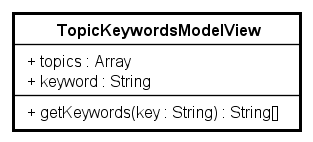
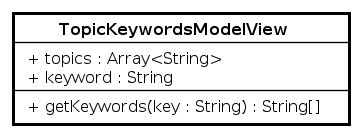
Aggiornato TopicKeywordsModelView.

Changed region(s): [[0.0288, 0.0584, 0.9776, 0.9343], [0.0863, 0.3796, 0.6326, 0.4964]]

diff --git a/RP/DefinizioneDiProdotto/sezioni/Front-End/ModelViews/QuizziPedia_Front-End_ModelViews_TopicKeywordsModelView.tex b/RP/DefinizioneDiProdotto/sezioni/Front-End/ModelViews/QuizziPedia_Front-End_ModelViews_TopicKeywordsModelView.tex
@@ -18,7 +18,7 @@
 					\end{itemize}
 					\item \textbf{Attributi}: 
 					\begin{itemize}
-						\item \texttt{+ topics: Array} \\ \texttt{array} contenente le stringhe dei nomi degli argomenti;
+						\item \texttt{+ topics: Array<String>} \\ \texttt{array} contenente le stringhe dei nomi degli argomenti;
 						\item \texttt{+ keyword: String} \\ Attributo contenente la keyword associata alla domanda/questionario.
 					\end{itemize}
 					\item \textbf{Metodi}: 
